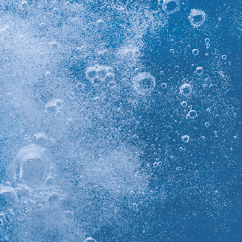
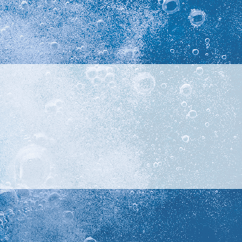
feat: change images

diff --git a/assets/css/style.css b/assets/css/style.css
@@ -247,12 +247,12 @@
   background-repeat: no-repeat;
   background-position: center;
   padding: 10px;
+  padding-top: 55px;
   position: absolute;
   top: 50%;
   transform: translateY(-50%);
   height: 150px;
   width: 225px;
-  background-color: rgba(255, 255, 255, 0.65);
 }
 #la-roche.la-roche .es-ingr__single--1 {
   background-image: url(../img/es-ingr-1.png);

diff --git a/assets/css/style.scss b/assets/css/style.scss
@@ -222,12 +222,12 @@ $fw--black: 900;
     background-repeat: no-repeat;
     background-position: center;
     padding: 10px;
+    padding-top: 55px;
     position: absolute;
     top: 50%;
     transform: translateY(-50%);
     height: 150px;
     width: 225px;
-    background-color: rgba(255, 255, 255, 0.65);
   }
 
   .es-ingr__single--1 {
